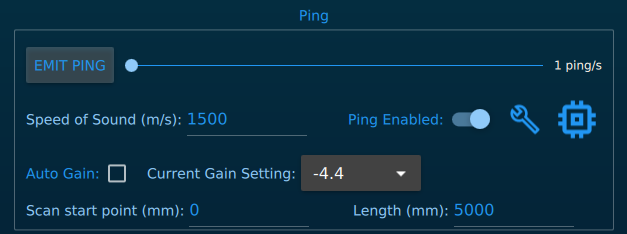
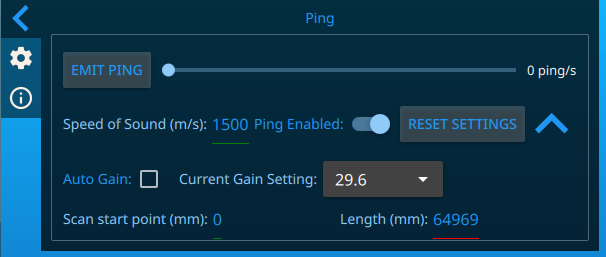
docs: device-settings-ping1d: Update information about ping-viewer 2.2

Changed region(s): [[0.0, 0.0, 1.0, 1.0]]

diff --git a/docs/device-settings-ping1d.md b/docs/device-settings-ping1d.md
@@ -6,10 +6,11 @@
 - **Ping Rate Slider:** Enable continuous transmission of profile data, and set the maximum update rate (the actual update rate may be slower).
 - **Speed of Sound:** The speed of sound to be used for distance calculations. This should be 1500 m/s in salt water, 1435 m/s in fresh water, and 343 m/s in air (for testing!).
 - **Ping Enabled:** Enable the acoustic output of the Ping device. When set to disabled, the Ping will not emit energy from the transducer. When set to enabled, energy may be emitted for background operations, even when there is no data being transmitted.
+- **Reset Settings:** Reset sensor to default configuration.
 
 #### Advanced Settings
 
-> Click the wrench on the Device Settings menu to access these advanced settings
+> Click on the arrow in the **Device Settings** menu to access these advanced settings
 
 - **Auto Gain:** Enable automatic gain and range adjustments (ENABLED is the recommended default settings).
 - **Gain Selection:** Manual gain control (automatic mode must be disabled). Adjust the sensitivity of the device; larger numbers indicate greater sensitivity.
